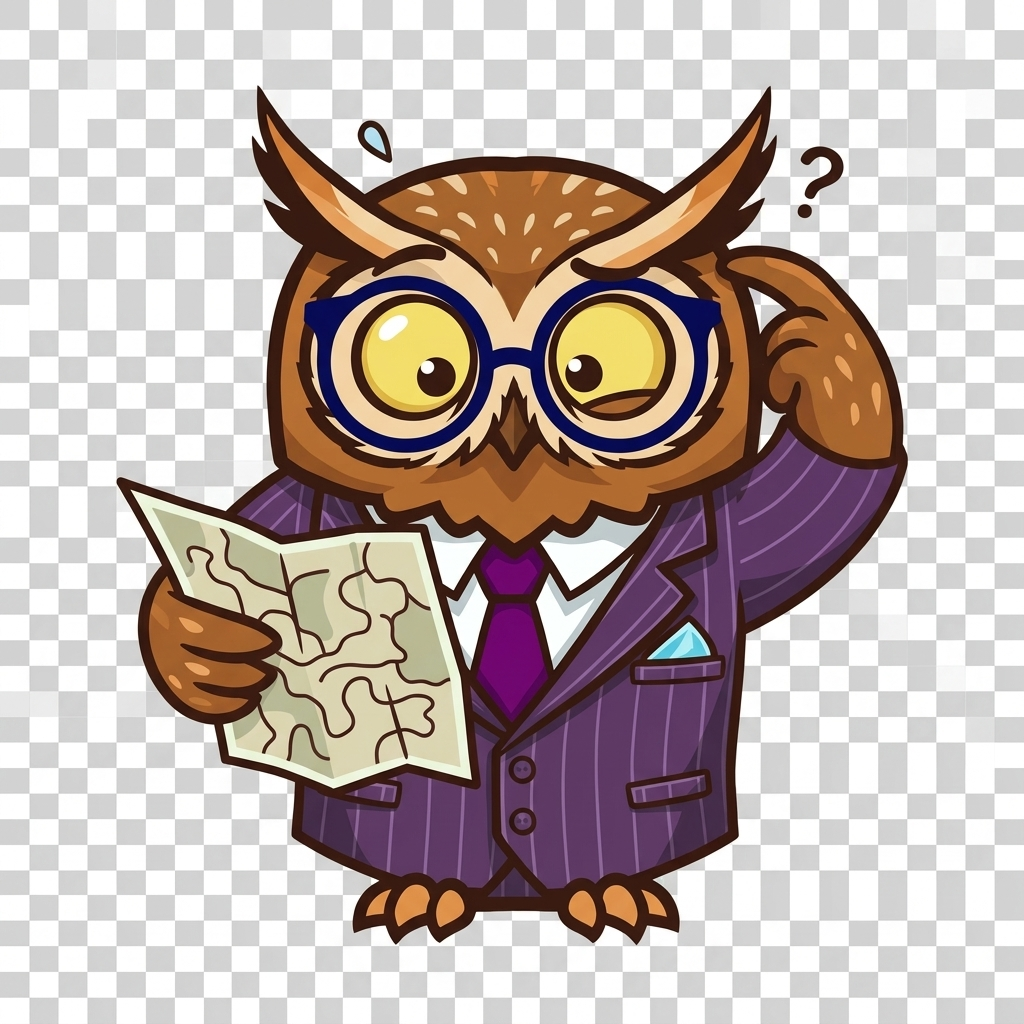
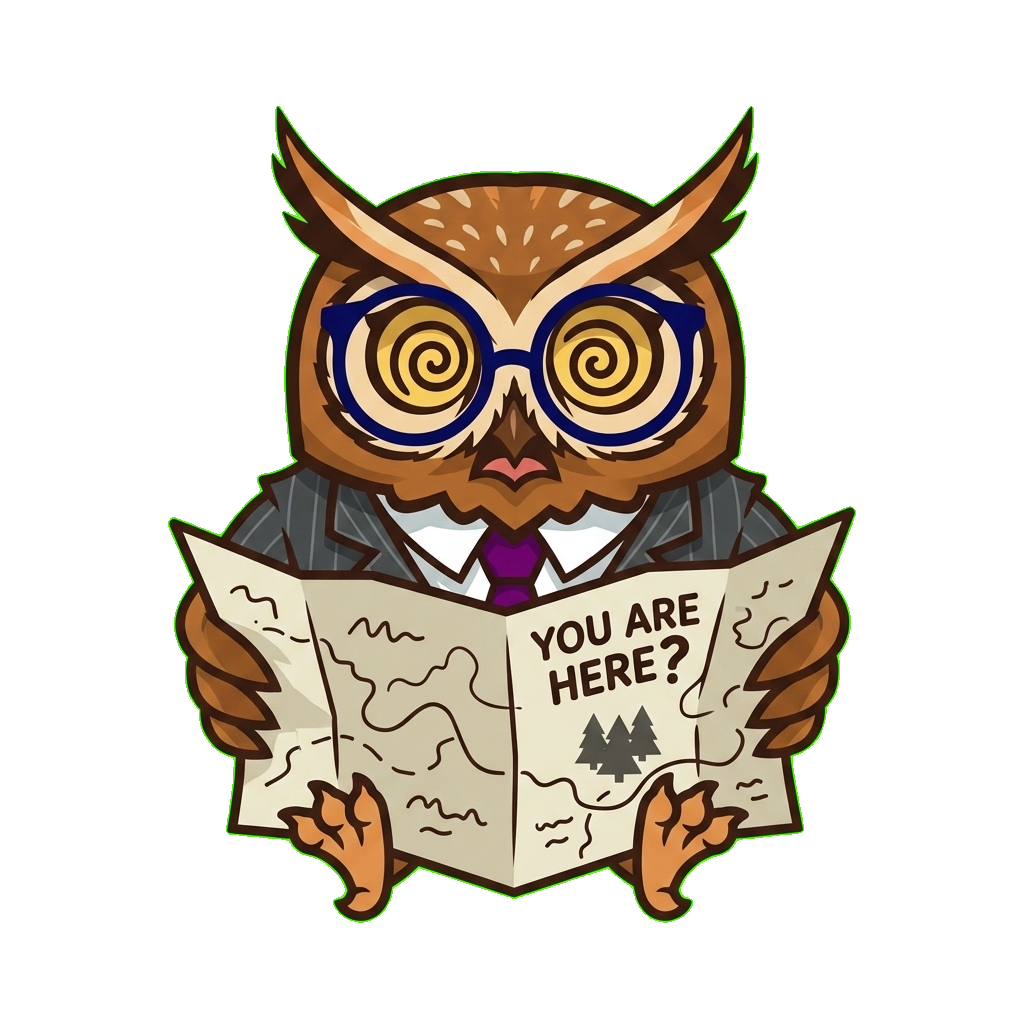
fix(ui): quitar fondo de cuadrícula a las ilustraciones y mejorar partículas de fuego en error 500

diff --git a/templates/500.html b/templates/500.html
@@ -205,7 +205,7 @@
     @keyframes sparkUp {
       0% { opacity: 0; transform: translateY(0) scale(1); }
       20% { opacity: var(--max-op); }
-      100% { opacity: 0; transform: translateY(-80px) scale(0.3); }
+      100% { opacity: 0; transform: translateY(var(--rise)) scale(0.3); }
     }
   </style>
 </head>
@@ -268,21 +268,25 @@
   </main>
 
   <script>
-    // Generate rising sparks
+    // Generate rising sparks (like fire flames)
     (function () {
       const container = document.getElementById('sparks');
-      const count = 35;
+      const count = 80; // More sparks
       for (let i = 0; i < count; i++) {
         const s = document.createElement('div');
         s.className = 'spark';
-        s.style.left = (20 + Math.random() * 60) + '%';
+        // Cluster them more in the center horizontally
+        s.style.left = (35 + Math.random() * 30) + '%';
         s.style.bottom = '-10px';
-        s.style.setProperty('--dur', (2 + Math.random() * 3) + 's');
-        s.style.setProperty('--delay', (Math.random() * 6) + 's');
-        s.style.setProperty('--max-op', (0.4 + Math.random() * 0.6).toFixed(2));
-        s.style.width = s.style.height = (1.5 + Math.random() * 2.5) + 'px';
-        const colors = ['#ef4444', '#f97316', '#eab308', '#fbbf24'];
+        s.style.setProperty('--dur', (1.5 + Math.random() * 2.5) + 's');
+        s.style.setProperty('--delay', (Math.random() * 4) + 's');
+        s.style.setProperty('--max-op', (0.5 + Math.random() * 0.5).toFixed(2));
+        // Some sparks are small, some are larger
+        s.style.width = s.style.height = (2 + Math.random() * 4) + 'px';
+        const colors = ['#ef4444', '#f97316', '#eab308', '#fbbf24', '#ffedd5'];
         s.style.background = colors[Math.floor(Math.random() * colors.length)];
+        // Add random height distance to CSS variable
+        s.style.setProperty('--rise', '-' + (150 + Math.random() * 350) + 'px');
         container.appendChild(s);
       }
     })();

diff --git a/remove_bg.py b/remove_bg.py
@@ -1,0 +1,32 @@
+import sys
+try:
+    from PIL import Image
+except ImportError:
+    print("Pillow not installed. Please install it.")
+    sys.exit(1)
+
+def remove_background(input_path, output_path):
+    img = Image.open(input_path).convert("RGBA")
+    datas = img.getdata()
+    
+    # We will assume the top-left pixel is the background color
+    bg_color = datas[0]
+    
+    newData = []
+    for item in datas:
+        # If the pixel is similar to the background color, make it transparent
+        # We allow a small tolerance
+        if abs(item[0] - bg_color[0]) < 30 and \
+           abs(item[1] - bg_color[1]) < 30 and \
+           abs(item[2] - bg_color[2]) < 30:
+            # Check if it's mostly green (to be safe it's the background)
+            newData.append((255, 255, 255, 0))
+        else:
+            newData.append(item)
+
+    img.putdata(newData)
+    img.save(output_path, "PNG")
+    print(f"Saved {output_path}")
+
+remove_background(r"C:\Users\Usuario\.gemini\antigravity-ide\brain\cb4615a2-233a-4146-b6fc-2c121cdd1cec\owl_404_green_1779836471540.png", r"c:\Users\Usuario\Downloads\GastuDjango\static\img\owl_404_lost.png")
+remove_background(r"C:\Users\Usuario\.gemini\antigravity-ide\brain\cb4615a2-233a-4146-b6fc-2c121cdd1cec\owl_500_green_1779836493765.png", r"c:\Users\Usuario\Downloads\GastuDjango\static\img\owl_500_fixing.png")
